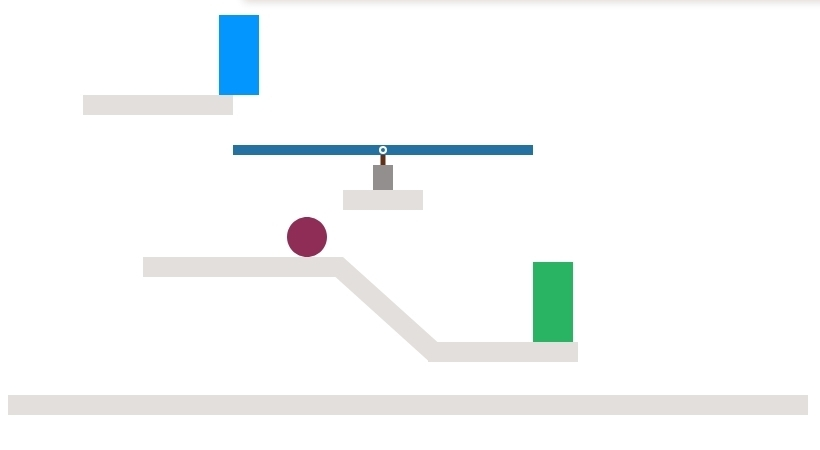
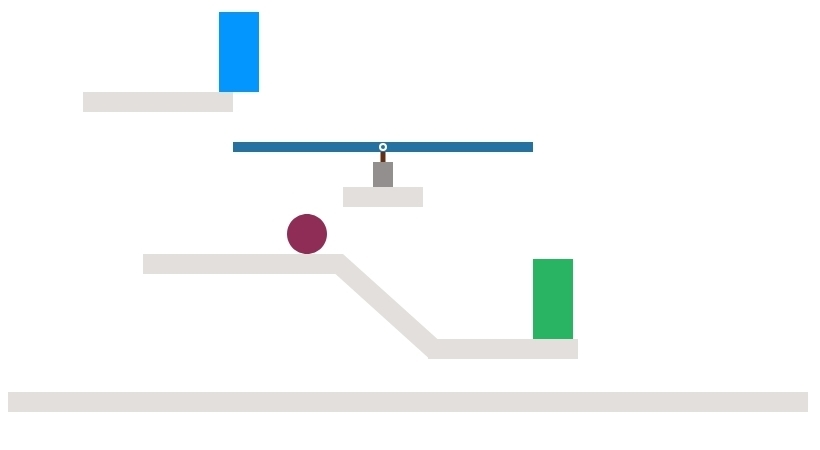
fixed border stimuli images

diff --git a/stimuli/index-stimuli.html b/stimuli/index-stimuli.html
@@ -29,8 +29,8 @@
       if(MODE === "test") {
         let relations = Array.from(Relations);
         // relations = ['independent']
-        // relations = ['ac_2']
-        relations = ['ac_1']
+        relations = ['ac_2']
+        // relations = ['ac_1']
 
         rel = relations[_.random(0, relations.length-1)];
         let p1 = _.sample(['u', 'h', 'l']);

diff --git a/01_custom_styles.css b/01_custom_styles.css
@@ -239,6 +239,7 @@ input[type="range"].replied::-webkit-slider-thumb {
 
 .picture{
   max-width: 75%;
+  max-height: 65%;
 }
 
 #buttonNext {
